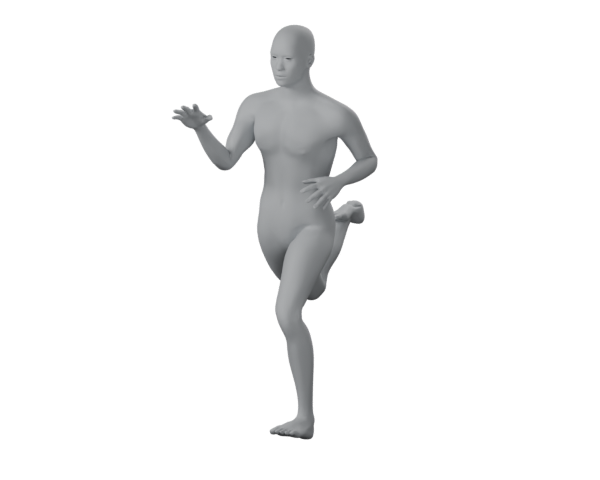
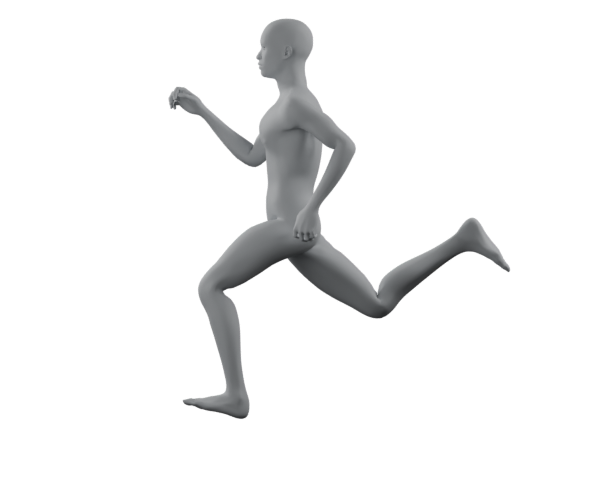
fix: refine activity category poses

Changed region(s): [[0.27, 0.0312, 0.87, 0.9375]]

diff --git a/tool/render_activity_categories.py b/tool/render_activity_categories.py
@@ -3,6 +3,8 @@ Run with Blender --background --python tool/render_activity_categories.py.
 Only writes cardio.png and hyrox.png; existing models and renders are untouched.
 """
 import pathlib
+import argparse
+import sys
 import bpy
 from mathutils import Vector, Matrix
 
@@ -20,7 +22,28 @@ def pose(rig, name, direction):
     pb.matrix = matrix
     bpy.context.view_layer.update()
 
-for category in ['cardio', 'hyrox']:
+def pose_hand_grip(rig, side, strength):
+    """Curl fingers in their local frame, preserving the wrist/arm alignment."""
+    for finger in ['index', 'middle', 'ring', 'pinky']:
+        for segment, bend in [('01', .75), ('02', 1.10), ('03', .70)]:
+            name = f'{finger}_{segment}_{side}'
+            if name in rig.pose.bones:
+                bone = rig.pose.bones[name]
+                bone.rotation_mode = 'XYZ'
+                bone.rotation_euler.x = bend * strength
+    for segment in ['02', '03']:
+        name = f'thumb_{segment}_{side}'
+        if name in rig.pose.bones:
+            bone = rig.pose.bones[name]
+            bone.rotation_mode = 'XYZ'
+            bone.rotation_euler.x = .35 * strength
+    bpy.context.view_layer.update()
+
+parser = argparse.ArgumentParser()
+parser.add_argument('--category', choices=['cardio', 'hyrox'])
+args = parser.parse_args(sys.argv[sys.argv.index('--') + 1:] if '--' in sys.argv else [])
+
+for category in ([args.category] if args.category else ['cardio', 'hyrox']):
     bpy.ops.wm.open_mainfile(filepath=str(ROOT / 'art/bench_press/bench_press.blend'))
     human = bpy.data.objects['Athlete']
     rig = bpy.data.objects['Athlete.rig']
@@ -47,22 +70,31 @@ for category in ['cardio', 'hyrox']:
         poly.use_smooth = True
     if category == 'cardio':
         directions = {
-            'thigh_l': (.03, -.32, -.27), 'calf_l': (.01, .10, -.42),
+            'thigh_l': (.03, -.36, -.23), 'calf_l': (.01, .10, -.42),
             'thigh_r': (-.02, .30, -.30), 'calf_r': (-.01, .31, .24),
-            'upperarm_l': (.05, .15, -.20), 'lowerarm_l': (.01, -.22, -.02),
+            # Left leg leads: left elbow swings behind, hand stays near the hip.
+            'upperarm_l': (.04, .22, -.15), 'lowerarm_l': (.01, -.13, -.22),
             'upperarm_r': (-.04, -.16, -.19), 'lowerarm_r': (0, -.18, .17),
         }
     else:
         directions = {
-            'thigh_l': (.01, -.13, -.39), 'calf_l': (0, .03, -.43),
-            'thigh_r': (-.01, .12, -.40), 'calf_r': (0, .06, -.42),
+            'thigh_l': (.01, -.23, -.36), 'calf_l': (0, .04, -.43),
+            'thigh_r': (-.01, .22, -.36), 'calf_r': (0, .14, -.40),
             'upperarm_l': (.07, 0, -.24), 'lowerarm_l': (.01, -.01, -.27),
             'upperarm_r': (-.07, 0, -.24), 'lowerarm_r': (-.01, -.01, -.27),
         }
     for name, direction in directions.items():
         pose(rig, name, direction)
     for side in ['l', 'r']:
-        pose(rig, 'foot_' + side, (0, -.14, -.03))
+        # The recovery foot follows the trailing shin rather than pointing
+        # forward at an unnatural ankle angle.
+        direction = (0, .11, -.06) if category == 'cardio' and side == 'r' else (0, -.14, -.03)
+        pose(rig, 'foot_' + side, direction)
+    if category == 'cardio':
+        for side in ['l', 'r']:
+            forearm = rig.pose.bones['lowerarm_' + side]
+            pose(rig, 'hand_' + side, forearm.tail - forearm.head)
+            pose_hand_grip(rig, side, .75)
     if category == 'hyrox':
         for side, sign in [('l', 1), ('r', -1)]:
             pose(rig, 'hand_' + side, (0, 0, -.10))
@@ -105,7 +137,7 @@ for category in ['cardio', 'hyrox']:
         light.data.shape = 'DISK'
         light.data.size = size
         aim(light, (0, 0, 1))
-    bpy.ops.object.camera_add(location=(3, -5, 2.1) if category == 'cardio' else (1.8, -6, 1.7))
+    bpy.ops.object.camera_add(location=(5, 0, .88) if category == 'cardio' else (3, -5, 1.7))
     camera = bpy.context.object
     camera.data.type = 'ORTHO'
     camera.data.ortho_scale = 2.30
